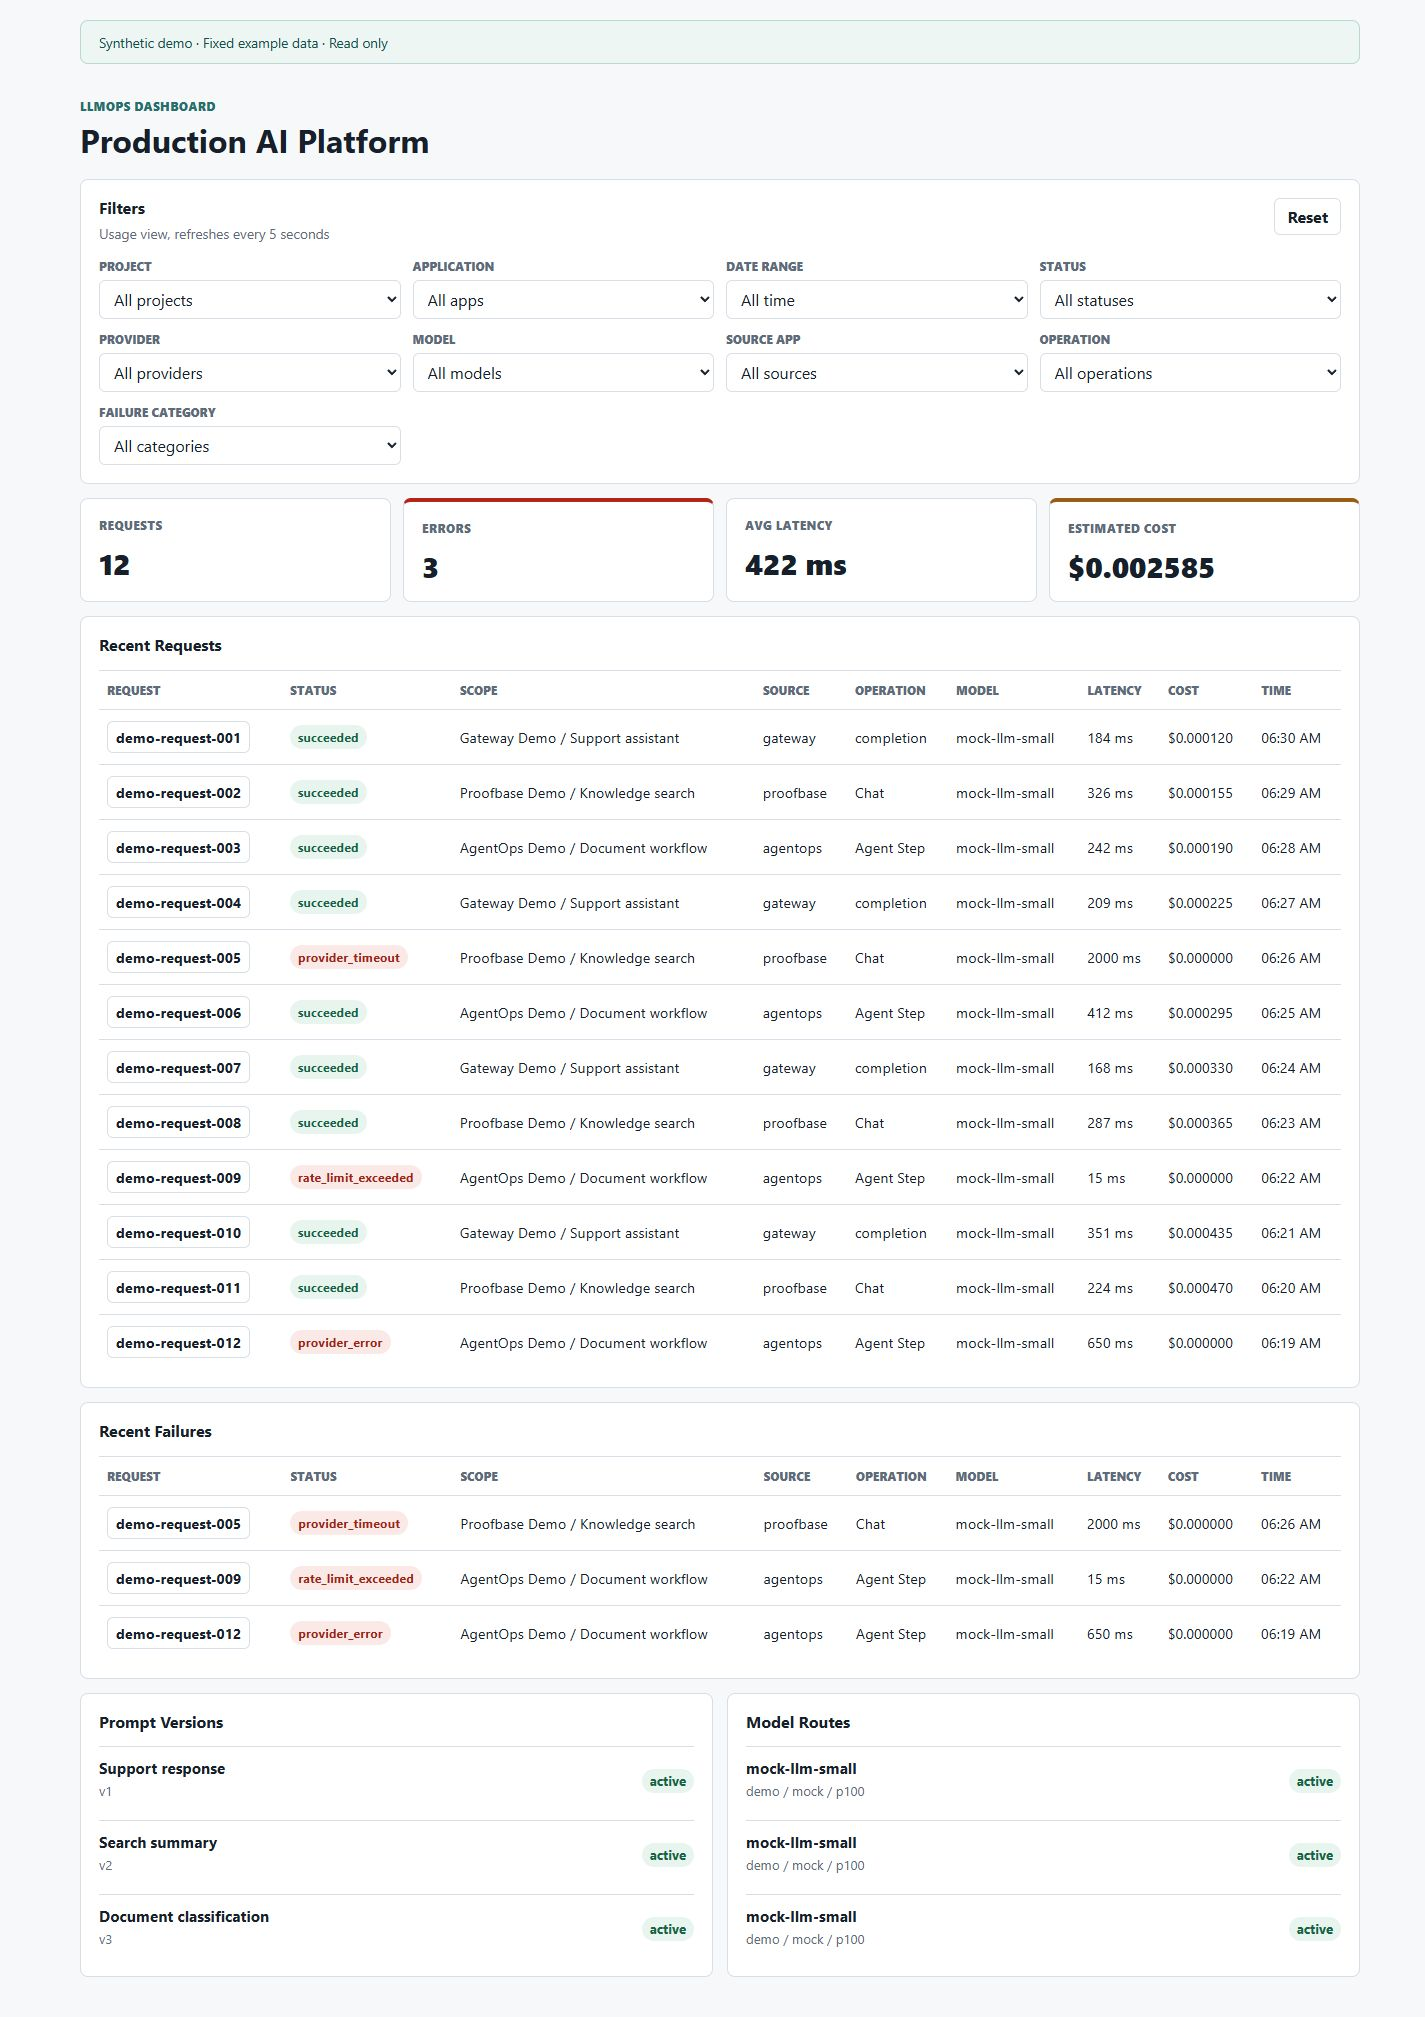
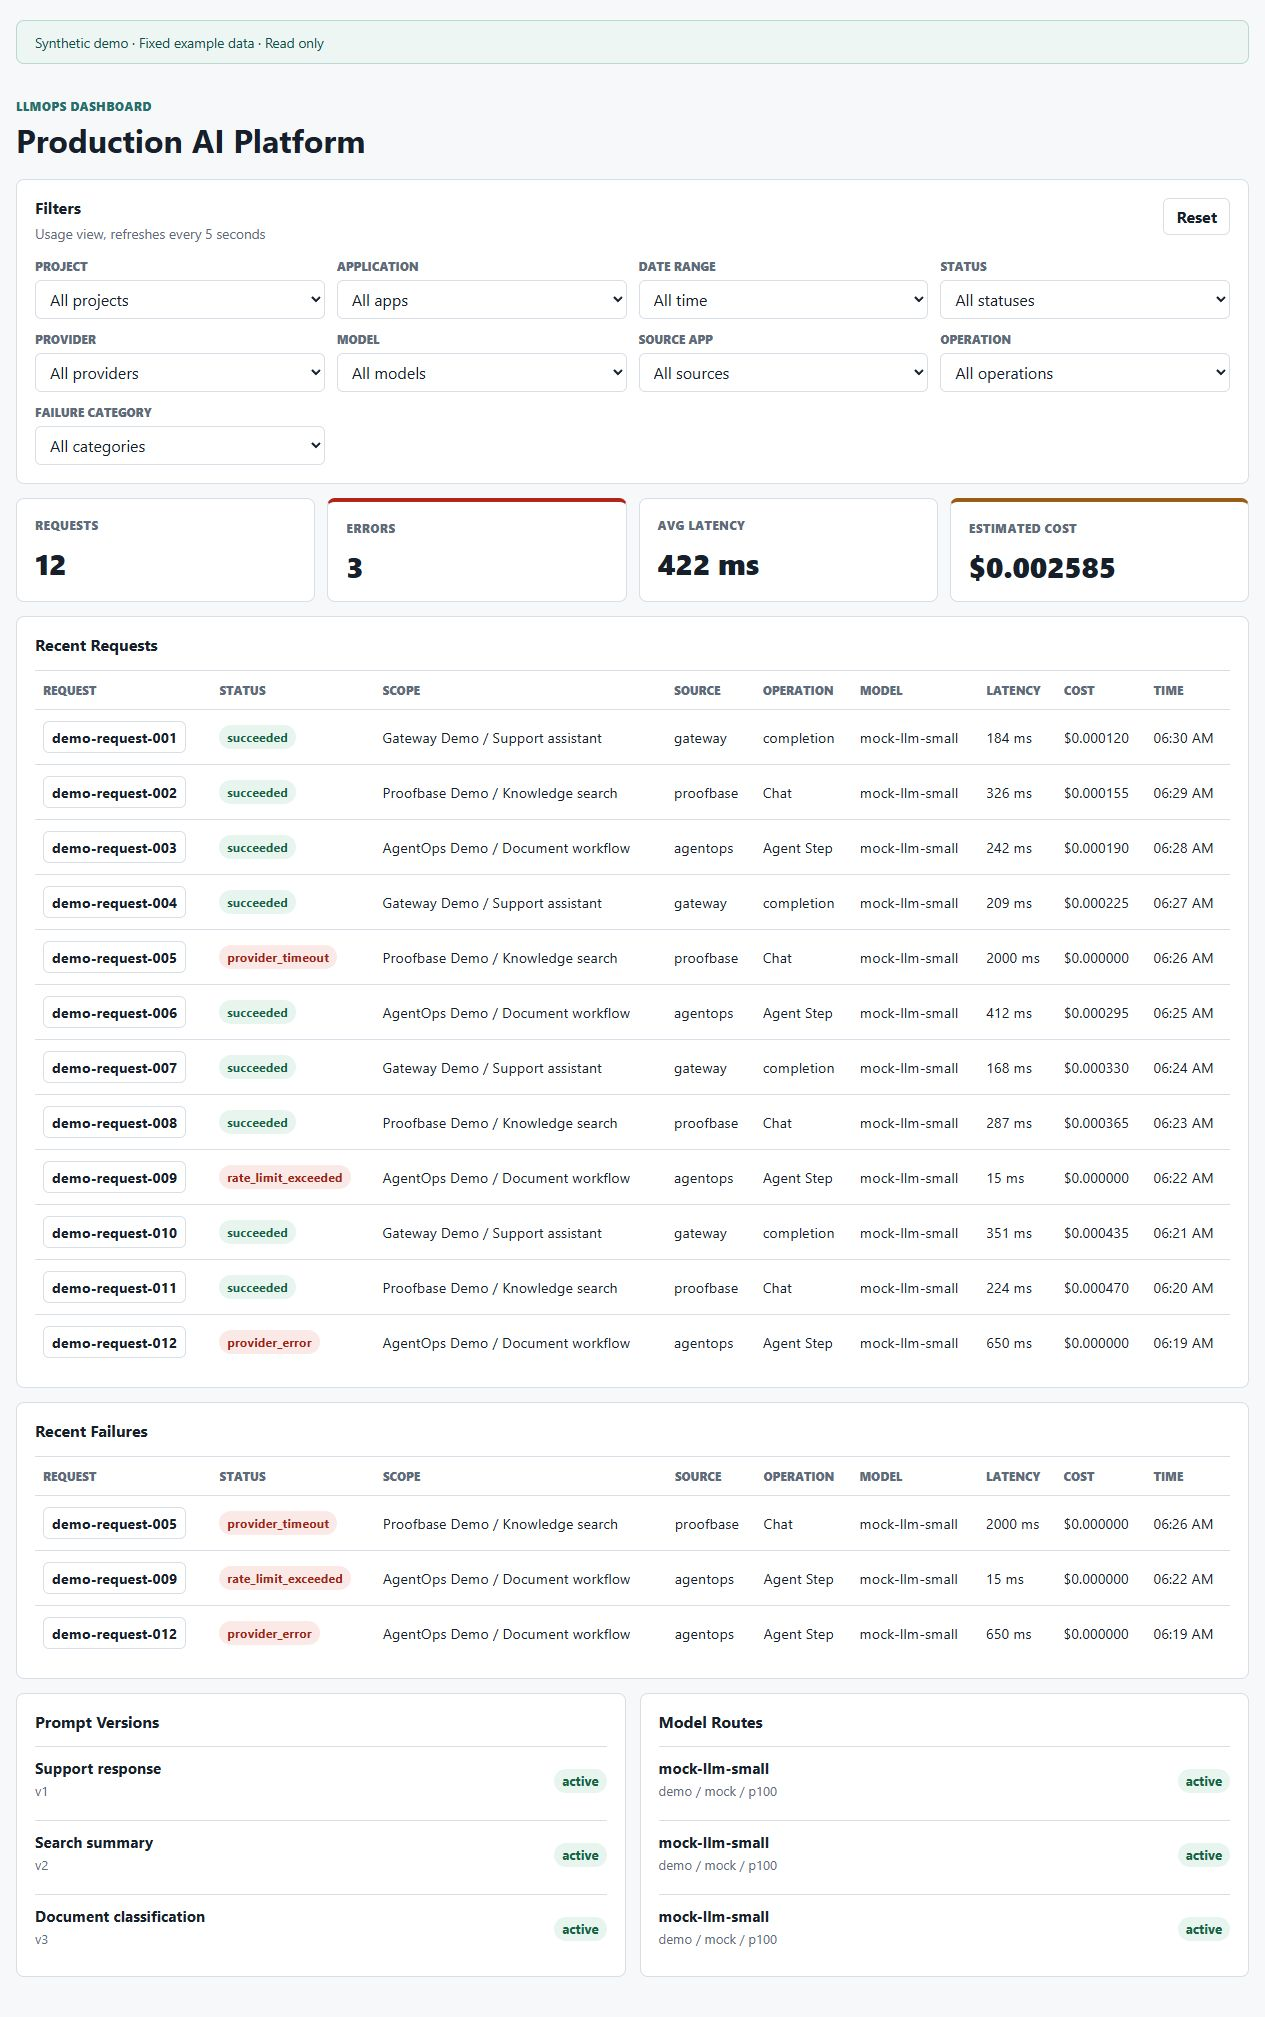
fix(web): preserve Java failure filtering in the synthetic demo
Summary:
- Keep failure lists independent of the request status selector, matching UsageFilter.
- Add a regression and container assertion; refresh actual screenshot provenance.

Validation:
- All 24 frontend tests passed with local Node 24 threads; lint, types and production build passed.
- Actual built-demo HTTP smoke passed with an unreachable backend.
- Current-revision mandatory CI follows; no CI worker or timeout settings changed.

Security:
- Read-only fixtures, authentication and API/database contracts remain unchanged.

Phase:
- Source-publication preparation, focused PR contract review fix.

diff --git a/apps/web/lib/synthetic-demo.ts b/apps/web/lib/synthetic-demo.ts
@@ -33,9 +33,10 @@ const requests = latency.map((latencyMs, index) => {
   };
 });
 
-function matchingRequests(query: URLSearchParams) {
+function matchingRequests(query: URLSearchParams, errorsOnly = false) {
   return requests.filter((request) => [...query.entries()].every(([key, value]) => {
-    if (key === "limit") return true;
+    // Java keeps its failures panel independent of the request status selector.
+    if (key === "limit" || (errorsOnly && key === "status")) return true;
     if (key === "created_from") return new Date(request.created_at) >= new Date(value);
     if (key === "created_to") return new Date(request.created_at) <= new Date(value);
     return key in request && String(request[key as keyof typeof request]) === value;
@@ -51,7 +52,7 @@ function limited<T>(rows: T[], query: URLSearchParams) {
 }
 
 export function syntheticDemo(path: string, query: URLSearchParams): unknown {
-  const matching = matchingRequests(query);
+  const matching = matchingRequests(query, path === "v1/usage/errors");
   switch (path) {
     case "v1/usage/summary": return {
       request_count: matching.length,

diff --git a/apps/web/lib/synthetic-demo.test.ts b/apps/web/lib/synthetic-demo.test.ts
@@ -39,6 +39,13 @@ test("date boundaries are inclusive and fixed examples remain deterministic", ()
   expect(rows().map((row) => row.created_at)).toEqual(rows().map((row) => row.created_at).sort().reverse());
 });
 
+test("failure lists ignore status while retaining the other Java API filters", () => {
+  expect(rows("status=succeeded", "errors")).toEqual(rows("", "errors"));
+  expect(rows("status=succeeded&source_app=agentops&limit=1", "errors")).toHaveLength(1);
+  expect(rows("status=succeeded&source_app=agentops", "errors").every((row) => row.status === "failed")).toBe(true);
+  expect(summary("status=succeeded")).toMatchObject({ request_count: 9, error_count: 0 });
+});
+
 test("limits apply to lists after filtering and never alter summary totals", () => {
   expect(rows("status=failed&limit=1")).toHaveLength(1);
   expect(rows("limit=1", "errors")).toHaveLength(1);

diff --git a/scripts/validate_java_container_stack.py b/scripts/validate_java_container_stack.py
@@ -49,6 +49,7 @@ def validate_synthetic_dashboard(http, port: str) -> None:
         < 0.000001
     )
     assert read("v1/usage/requests?status=failed") == errors
+    assert read("v1/usage/errors?status=succeeded") == errors
     assert read("v1/usage/summary?status=failed")["request_count"] == len(errors)
     assert len(read("v1/admin/prompt-versions")) == 3
     assert len(read("v1/admin/model-routes")) == 3

diff --git a/docs/next-chat-handoff.md b/docs/next-chat-handoff.md
@@ -62,3 +62,18 @@ known failure. The focused smoke fix validates twelve requests, three scopes,
 derived cost/latency/error totals, failure filtering, configuration panels and
 blocked writes against the actual built web application. Full current-revision
 CI remains mandatory; no failed or canceled run is treated as passing evidence.
+
+Further PR review found that Java ignores the status selector for its failures
+endpoint. The synthetic adapter now preserves that behavior with a regression test
+and container smoke assertion; all 24 frontend tests, lint, types, production build
+and actual HTTP smoke passed. On Windows, fork-worker startup timed out; the complete
+suite passed with bundled Node 24, a threads pool and one worker. CI settings are
+unchanged. Screenshots were recaptured and their actual 1280x720 window dimensions
+and image/source hashes recorded. Fixed example times are illustrative, not capture
+or operational-event evidence. A separate policy fix retains the existing private
+contact fallback until GitHub private reporting is enabled during publication.
+
+Superseded PR run `35183603661` was canceled after the additional filter finding.
+The four newly completed PR/review runs and their 17 downloadable log/artifact
+archives were inventoried and scanned with zero detections. Current final PR and
+main evidence still require their own verification and exposure review.

diff --git a/docs/dashboard-screenshots.md b/docs/dashboard-screenshots.md
@@ -19,6 +19,8 @@ No backend, database, identity provider or paid LLM service supplies the example
 
 The examples have fixed September 17, 2026 timestamps. Use **All time** to view the
 whole fixture set; relative date filters can legitimately return no rows later.
+The Status selector filters requests and summary totals; the failures panel
+always shows failed rows within the other selected filters, matching the Java API.
 Counts, averages and costs derive from the displayed fixture dataset, not actual
 provider charges or the measured local recovery sample.
 
@@ -31,5 +33,5 @@ remain as historical evidence. Neither gallery demonstrates Grafana or AWS opera
 Start the default Compose stack and open the web dashboard. Confirm its
 **Synthetic demo · Fixed example data · Read only** notice. Capture the overview,
 open `demo-request-001`, then close the details and set Status to `failed`.
-Use a 1440-pixel desktop viewport and preserve the notice. Inspect mobile layout
+Use a 1280 by 720 desktop viewport (the final capture dimensions) and preserve the notice. Inspect mobile layout
 separately. Do not edit screenshot content or substitute generated images.

diff --git a/docs/security/publication-review.md b/docs/security/publication-review.md
@@ -42,7 +42,7 @@ must be included in the final pre-publication review.
   Literal demo keys in newly archived command examples use shell variables;
   original examples remain in history. The complete patch also includes removed
   historical placeholders, which are not new credentials.
-- Frontend: 23 tests, lint, type checks and production build passed. Tests cover
+- Frontend: 24 tests, lint, type checks and production build passed. Tests cover
   fixture consistency, filters, time bounds, limits, empty results, details,
   blocked writes and absence of backend calls.
 - Actual browser captures: [gallery and source hashes](../dashboard-screenshots.md).
